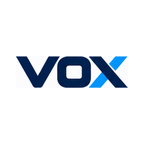
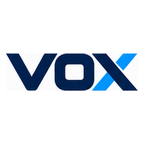
PWA-1 (4/N): aumentar o mark VOX dentro dos ícones (ficou pequeno na tela inicial)
Achado do usuário (ícone real instalado na tela inicial do Android):
o mark "VOX" ocupava só ~78% da largura do ícone, mas como a logo é
bem larga/baixa (~3.5:1 de proporção), isso resultava em só ~22% da
ALTURA preenchida -- lia como pequeno/perdido dentro do quadrado
branco. Aumentado content_scale de 0.78→0.92 nos ícones padrão (e
apple-touch-icon/favicon proporcionalmente) e de 0.55→0.65 nos
maskable (o maior valor que ainda mantém a diagonal do mark dentro
do raio de 80% da safe zone circular, calculado a partir da proporção
real do mark: 234×67px).

Mesmo arquivo-fonte, mesmo recorte, sem redesenhar nada -- só menos
espaço em branco ao redor. manifest.json e os <link> de favicon/
apple-touch-icon ganharam querystring de cache-bust nova (?v=2 /
?v=PWA1-2) para navegadores buscarem os arquivos atualizados; ícones
JÁ instalados na tela inicial de um usuário podem não atualizar
sozinhos (limitação do próprio Android/Chrome pra ícones de PWA já
instalados, não algo que dá pra forçar via código) -- só afeta
instalações novas ou reinstalação.

Claude-Session: https://claude.ai/code/session_01CQXNSxML1iqT2ryqtpXnCG

Changed region(s): [[0.0278, 0.3611, 0.9722, 0.6389], [0.4444, 0.4444, 0.5833, 0.5556]]

diff --git a/index.html b/index.html
@@ -1,10 +1,10 @@
 <!doctype html>
-<html lang="pt-BR"><head><meta charset="utf-8"/><meta name="viewport" content="width=device-width,initial-scale=1"/><meta name="theme-color" content="#0c2340"><meta name="vx-build" content="20260913-3"><title>VoxAssist Web V0.8.13</title>
-<link rel="manifest" href="manifest.json?v=PWA1-1"/>
-<link rel="icon" href="icons/favicon.ico?v=PWA1-1" sizes="any"/>
-<link rel="icon" href="icons/favicon-32.png?v=PWA1-1" type="image/png" sizes="32x32"/>
-<link rel="icon" href="icons/favicon-16.png?v=PWA1-1" type="image/png" sizes="16x16"/>
-<link rel="apple-touch-icon" href="icons/apple-touch-icon.png?v=PWA1-1"/>
+<html lang="pt-BR"><head><meta charset="utf-8"/><meta name="viewport" content="width=device-width,initial-scale=1"/><meta name="theme-color" content="#0c2340"><meta name="vx-build" content="20260913-4"><title>VoxAssist Web V0.8.13</title>
+<link rel="manifest" href="manifest.json?v=PWA1-2"/>
+<link rel="icon" href="icons/favicon.ico?v=PWA1-2" sizes="any"/>
+<link rel="icon" href="icons/favicon-32.png?v=PWA1-2" type="image/png" sizes="32x32"/>
+<link rel="icon" href="icons/favicon-16.png?v=PWA1-2" type="image/png" sizes="16x16"/>
+<link rel="apple-touch-icon" href="icons/apple-touch-icon.png?v=PWA1-2"/>
 <meta name="apple-mobile-web-app-capable" content="yes"/>
 <meta name="apple-mobile-web-app-status-bar-style" content="black-translucent"/>
 <meta name="apple-mobile-web-app-title" content="VoxAssist"/>
@@ -21,6 +21,6 @@
 <script defer src="tabs-drag-reorder-v0813.js?v=0813-1"></script>
 <script defer src="tabs-chat-view-v0813.js?v=0813-1"></script><script defer src="os-status-engine-v0903.js?v=0904-3"></script><script defer src="os-detail-v0812.js?v=0908-2"></script><script defer src="manual-status-v0812.js?v=0907-6"></script><script defer src="os-manual-part.js?v=0903"></script><script defer src="os-notes-modal.js?v=0813-20260912PWA01STATE"></script><script defer src="new-os-v0812.js?v=0813-20260908-4"></script><script defer src="new-os-cep.js?v=0813"></script><script defer src="smart-autocomplete-v0812.js?v=0813"></script><script defer src="phone-mask-v0812.js?v=0813"></script><script defer src="navigation-policy-v0812.js?v=0813"></script><script defer src="order-type-v0812.js?v=0813-20260908-4"></script><script defer src="os-client-inline-search-v0812.js?v=0813"></script><script defer src="global-search-v0812.js?v=0813"></script><script defer src="sidebar-special-v0812.js?v=0813"></script><script defer src="equipment-save-v0812.js?v=0813-20260904-1"></script><script defer src="currency-format-v0812.js?v=0813"></script><script defer src="os-global-save-v0812.js?v=0907-6-20260912CURRENCYFIX"></script><script defer src="os-cancel-v0812.js?v=0813"></script><script defer src="os-actions-menu-v0812.js?v=0813-CHAT7"></script>
 <script defer src="os-send-document-chat-v0813.js?v=0813-7"></script><script defer src="import-os-v0812.js?v=0813"></script><script defer src="final-routing-v0812.js?v=0813"></script><script defer src="operations-test-v0812.js?v=0813"></script><script defer src="os-summary-map-v0812.js?v=0813-2"></script><script defer src="os-corrections-v0812.js?v=0907-3"></script><script defer src="os-budget-restore-v0812.js?v=0813"></script><script defer src="os-edit-data-fix-v0812.js?v=0813"></script><script defer src="tabs-switch-preserve-v0812.js?v=0813"></script><script defer src="tabs-stable-switch-v0812.js?v=0813"></script><script defer src="os-client-history-open-v0812.js?v=0813"></script><script defer src="company-users-admin-v0812.js?v=0813"></script><script defer src="company-guard-confirm-edit-v0812.js?v=0909-1"></script><script defer src="company-profile-complete-v0812.js?v=0909-1"></script><script defer src="os-save-currency-fix-v0812.js?v=0813"></script><script defer src="os-summary-lock-alignment-v0812.js?v=0907-2"></script><script defer src="field-agenda-v0813.js?v=0813-20260820-AGENDA1"></script><script defer src="whirlpool-import-v0813.js?v=0813-20260820-PILOT1-20260912FIELDSFIX"></script><script defer src="os-whirlpool-extension-v0813.js?v=0813-20260909-WPEXT6-20260912P0FREEZE-REENTRANCY-PWA0FIX"></script><script defer src="whirlpool-faithful-mode-v0813.js?v=0813-20260909-WPFAITH3-20260912P0FREEZE"></script><script defer src="whirlpool-layout-hotfix-v0813.js?v=0813-20260821-WPLAYOUT2-20260912HIDDENGUARD"></script><script defer src="field-agenda-complete-v0813.js?v=0814-20260909-ALERTAS1"></script><script defer src="field-service-v0813.js?v=0813-20260820-PILOT1-20260912SIGDIRTY-CANVASDPR"></script><script defer src="input-masks-v0813.js?v=0813-20260820-MASK1"></script><script defer src="store-cep-fix-v0813.js?v=0813-20260820-STORECEP1"></script><script defer src="cep-autofill-v0813.js?v=0813-20260820-CEP2"></script><script defer src="company-hierarchy-v0813.js?v=0813-20260820-COMPANYH1"></script><script defer src="master-reset-v0813.js?v=0813-20260820-RESET1"></script><script defer src="first-run-setup-v0813.js?v=0813-20260820-FIRSTRUN1"></script><script defer src="first-access-final-v0813.js?v=0813-20260820-FIRSTRUN2"></script><script defer src="first-run-hardfix-v0813.js?v=0813-20260820-HARDFIX2"></script><script defer src="user-logoff-v0813.js?v=0813-20260909-LOGOFF5"></script><script defer src="company-logo-preview-v0813.js?v=0813-20260820-LOGOPREVIEW1"></script><script defer src="company-multilist-fix-v0813.js?v=0813-20260820-MULTICOMPANY1"></script><script defer src="company-management-final-v0813.js?v=0813-20260909-COMPANYFINAL3"></script><script defer src="company-store-model-v0813.js?v=0813-20260820-COMPANYSTORE1"></script><script defer src="user-access-management-v0813.js?v=0813-20260909-USERACCESS6"></script><script defer src="service-groups-v0904.js?v=0907-5"></script><script defer src="service-stores-admin-v0907.js?v=0907-5"></script><script defer src="settings-integrations-v0907.js?v=0907-6"></script><script defer src="settings-schedule-v0907.js?v=0909-2"></script><script defer src="settings-hub-v0908.js?v=0909-8"></script><script defer src="settings-product-catalog-v0908.js?v=0908-3"></script><script defer src="settings-payment-methods-v0908.js?v=0908-5"></script>
-<script defer src="settings-bonus-v0912.js?v=0912-1"></script><script defer src="settings-order-types-v0908.js?v=0909-3"></script><script defer src="settings-stock-v0908.js?v=0908-3"></script><script defer src="settings-communication-v0908.js?v=0909-3"></script><script defer src="settings-security-v0908.js?v=0909-4"></script><script defer src="company-only-mode-v0813.js?v=0813-20260909-COMPANYONLY13"></script><script defer src="user-permissions-ui-v0813.js?v=0813-20260909-PERM3"></script><script defer src="permissions-catalog-v0901.js?v=CONSOLIDATE1"></script><script defer src="company-selector-singleton-v0813.js?v=0813-20260909-COMPANYSELECT2"></script><script defer src="security-whirlpool-hardening-v0813.js?v=0813-20260821-HARDEN1-20260912FIX"></script><script defer src="agenda-drag-persistence-v0813.js?v=0813-20260821-DRAG2"></script><script defer src="whirlpool-tab-label-v0813.js?v=0813-20260821-WPLABEL1-20260912P0FREEZE"></script><script defer src="whirlpool-direct-edit-v0813.js?v=0813-20260821-WPDIRECT1-20260912DEDUP-EDITARFIX"></script><script defer src="whirlpool-complete-factory-v0813.js?v=0813-20260903-WPCOMPLETE2-20260912B21-EDITARFIX-PARTSSYNC-SIGDIRTY"></script><script defer src="whirlpool-technician-signature-v0813.js?v=0813-20260821-WPTECHSIGN1-20260912HIDDENGUARD"></script><script defer src="whirlpool-fidelity-validation-v0813.js?v=0813-20260821-WPFIDELITY2-20260912P0FREEZE-HIDDENGUARD"></script><script defer src="whirlpool-data-hydration-v0813.js?v=0813-20260821-WPHYDRATE1-20260912CANON"></script><script defer src="header-layout-final-v0813.js?v=0813-20260821-HEADER1"></script><script defer src="whirlpool-exact-factory-layout-v0813.js?v=0813-20260821-WPEXACT1-20260912TOTALSFIX"></script><script defer src="whirlpool-a4-fidelity-hotfix-v0813.js?v=0813-20260821-WPA4FIX1-20260912HIDDENGUARD-PWA0FIX"></script><script defer src="whirlpool-dimension-fix-v0813.js?v=0813-20260822-WPDIM1-20260912PWA0FIX"></script><script defer src="whirlpool-fixed-header-data-v0813.js?v=0813-20260822-WPFIXEDHEADER1-20260912CANON-HIDDENGUARD"></script><script defer src="whirlpool-header-block-fix-v0813.js?v=0813-20260822-WPHEADER2-20260912P0FREEZE"></script><script defer src="electrolux-reports-v0813.js?v=0816-20260904-ELX3"></script><script defer src="pulse-ia-link-v0825.js?v=0813-20260827-GATEWAY1"></script><script defer src="electrolux-agenda-bridge-v0825.js?v=0813-20260828-ELXVISUAL3"></script><script defer src="electrolux-nps-v0826.js?v=0818-20260828-NPS6"></script><script defer src="operational-jornada-v0827.js?v=0813-20260828-JORNADA4"></script><script defer src="runtime/dashboard-canonical-v1.js?v=CONSOLIDATE32"></script><script defer src="chat-beta-v0828.js?v=0818-20260905-CHATBETA22-PWA1CANUSECHAT-COMPOSERWIDTHFIX"></script><script defer src="form-error-display-v1.js?v=FORMERR1"></script><script defer src="presence-heartbeat-v1.js?v=PRESENCE2-20260912PWA01STATE"></script><script defer src="event-alerts-v0904.js?v=0907-4"></script><script defer src="runtime/chat-bot-config-v1.js?v=CHATBOT2"></script><script defer src="runtime/chat-monitor-v1.js?v=CHATMON3"></script><script defer src="runtime/chat-internal-whatsapp-v1.js?v=CHATIWA1"></script><script defer src="build-version-check-v0907.js?v=0907-1"></script><script defer src="client-error-log-v0908.js?v=0908-1"></script><script defer src="access-history-v0909.js?v=0909-1"></script><script defer src="password-reset-v0909.js?v=0909-1"></script><script defer src="os-notification-suggestions-v0909.js?v=0909-1"></script><script defer src="os-documents-tab-v0909.js?v=0909-1-20260912FASEC-HISENSEASSURANT-FIDELIDADE2"></script><script defer src="mobile-nav-v1.js?v=PWA1-1"></script>
+<script defer src="settings-bonus-v0912.js?v=0912-1"></script><script defer src="settings-order-types-v0908.js?v=0909-3"></script><script defer src="settings-stock-v0908.js?v=0908-3"></script><script defer src="settings-communication-v0908.js?v=0909-3"></script><script defer src="settings-security-v0908.js?v=0909-4"></script><script defer src="company-only-mode-v0813.js?v=0813-20260909-COMPANYONLY13"></script><script defer src="user-permissions-ui-v0813.js?v=0813-20260909-PERM3"></script><script defer src="permissions-catalog-v0901.js?v=CONSOLIDATE1"></script><script defer src="company-selector-singleton-v0813.js?v=0813-20260909-COMPANYSELECT2"></script><script defer src="security-whirlpool-hardening-v0813.js?v=0813-20260821-HARDEN1-20260912FIX"></script><script defer src="agenda-drag-persistence-v0813.js?v=0813-20260821-DRAG2"></script><script defer src="whirlpool-tab-label-v0813.js?v=0813-20260821-WPLABEL1-20260912P0FREEZE"></script><script defer src="whirlpool-direct-edit-v0813.js?v=0813-20260821-WPDIRECT1-20260912DEDUP-EDITARFIX"></script><script defer src="whirlpool-complete-factory-v0813.js?v=0813-20260903-WPCOMPLETE2-20260912B21-EDITARFIX-PARTSSYNC-SIGDIRTY"></script><script defer src="whirlpool-technician-signature-v0813.js?v=0813-20260821-WPTECHSIGN1-20260912HIDDENGUARD"></script><script defer src="whirlpool-fidelity-validation-v0813.js?v=0813-20260821-WPFIDELITY2-20260912P0FREEZE-HIDDENGUARD"></script><script defer src="whirlpool-data-hydration-v0813.js?v=0813-20260821-WPHYDRATE1-20260912CANON"></script><script defer src="header-layout-final-v0813.js?v=0813-20260821-HEADER1"></script><script defer src="whirlpool-exact-factory-layout-v0813.js?v=0813-20260821-WPEXACT1-20260912TOTALSFIX"></script><script defer src="whirlpool-a4-fidelity-hotfix-v0813.js?v=0813-20260821-WPA4FIX1-20260912HIDDENGUARD-PWA0FIX"></script><script defer src="whirlpool-dimension-fix-v0813.js?v=0813-20260822-WPDIM1-20260912PWA0FIX"></script><script defer src="whirlpool-fixed-header-data-v0813.js?v=0813-20260822-WPFIXEDHEADER1-20260912CANON-HIDDENGUARD"></script><script defer src="whirlpool-header-block-fix-v0813.js?v=0813-20260822-WPHEADER2-20260912P0FREEZE"></script><script defer src="electrolux-reports-v0813.js?v=0816-20260904-ELX3"></script><script defer src="pulse-ia-link-v0825.js?v=0813-20260827-GATEWAY1"></script><script defer src="electrolux-agenda-bridge-v0825.js?v=0813-20260828-ELXVISUAL3"></script><script defer src="electrolux-nps-v0826.js?v=0818-20260828-NPS6"></script><script defer src="operational-jornada-v0827.js?v=0813-20260828-JORNADA4"></script><script defer src="runtime/dashboard-canonical-v1.js?v=CONSOLIDATE32"></script><script defer src="chat-beta-v0828.js?v=0818-20260905-CHATBETA22-PWA1CANUSECHAT-COMPOSERWIDTHFIX"></script><script defer src="form-error-display-v1.js?v=FORMERR1"></script><script defer src="presence-heartbeat-v1.js?v=PRESENCE2-20260912PWA01STATE"></script><script defer src="event-alerts-v0904.js?v=0907-4"></script><script defer src="runtime/chat-bot-config-v1.js?v=CHATBOT2"></script><script defer src="runtime/chat-monitor-v1.js?v=CHATMON3"></script><script defer src="runtime/chat-internal-whatsapp-v1.js?v=CHATIWA1"></script><script defer src="build-version-check-v0907.js?v=0907-1"></script><script defer src="client-error-log-v0908.js?v=0908-1"></script><script defer src="access-history-v0909.js?v=0909-1"></script><script defer src="password-reset-v0909.js?v=0909-1"></script><script defer src="os-notification-suggestions-v0909.js?v=0909-1"></script><script defer src="os-documents-tab-v0909.js?v=0909-1-20260912FASEC-HISENSEASSURANT-FIDELIDADE2"></script><script defer src="mobile-nav-v1.js?v=PWA1-1"></script><script defer src="mobile-back-nav-v1.js?v=PWA1-1"></script>
 <script defer src="bonus-technician-view-v0912.js?v=0912-1"></script>
 <script defer src="os-electrolux-fg-badge-v0912.js?v=0912-1"></script></body></html>
